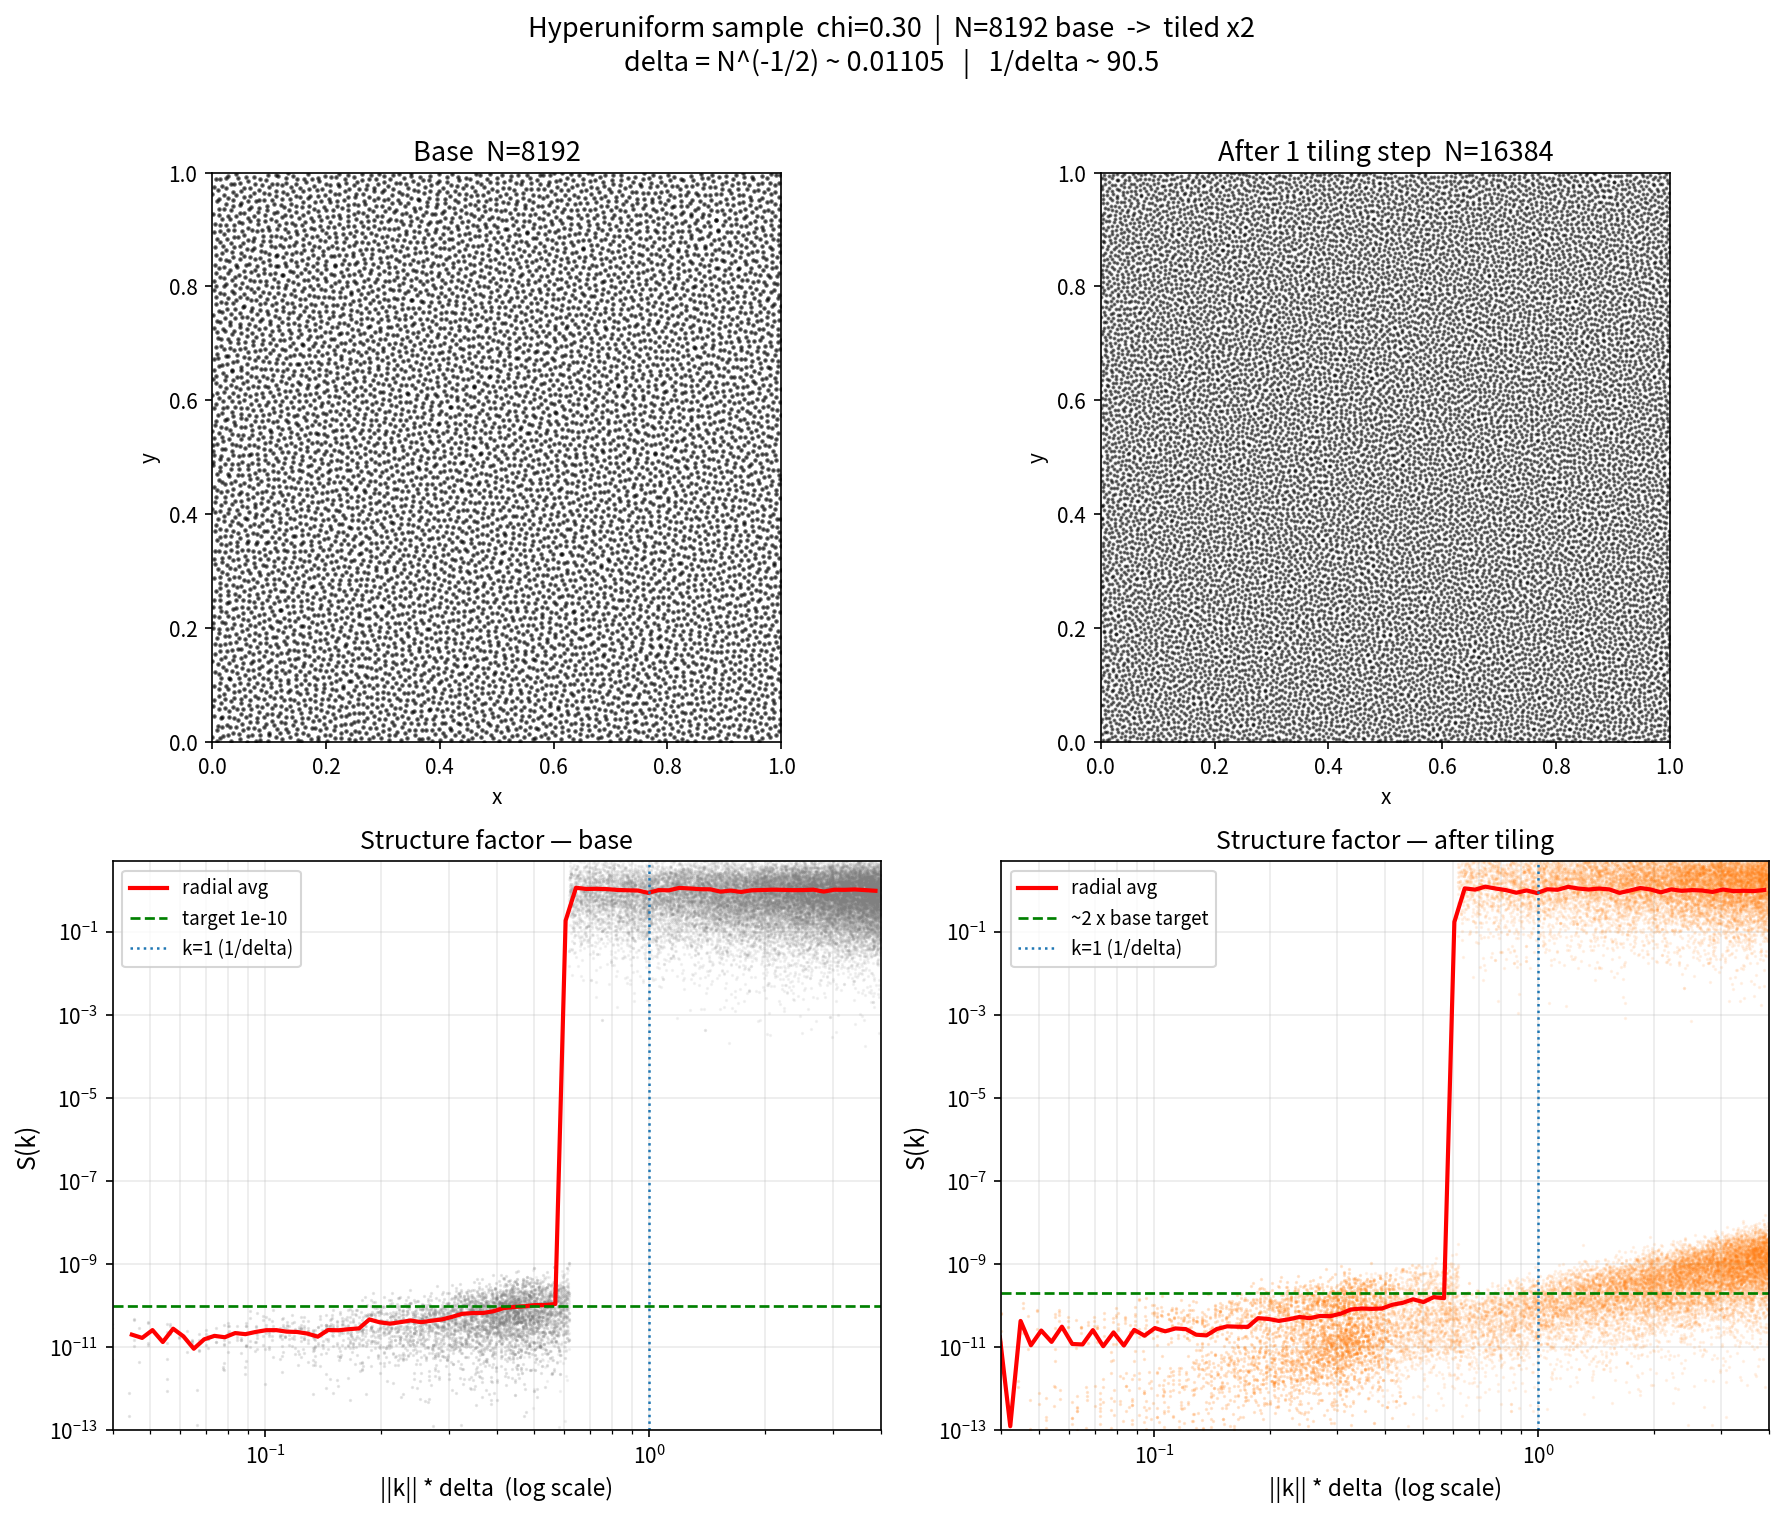
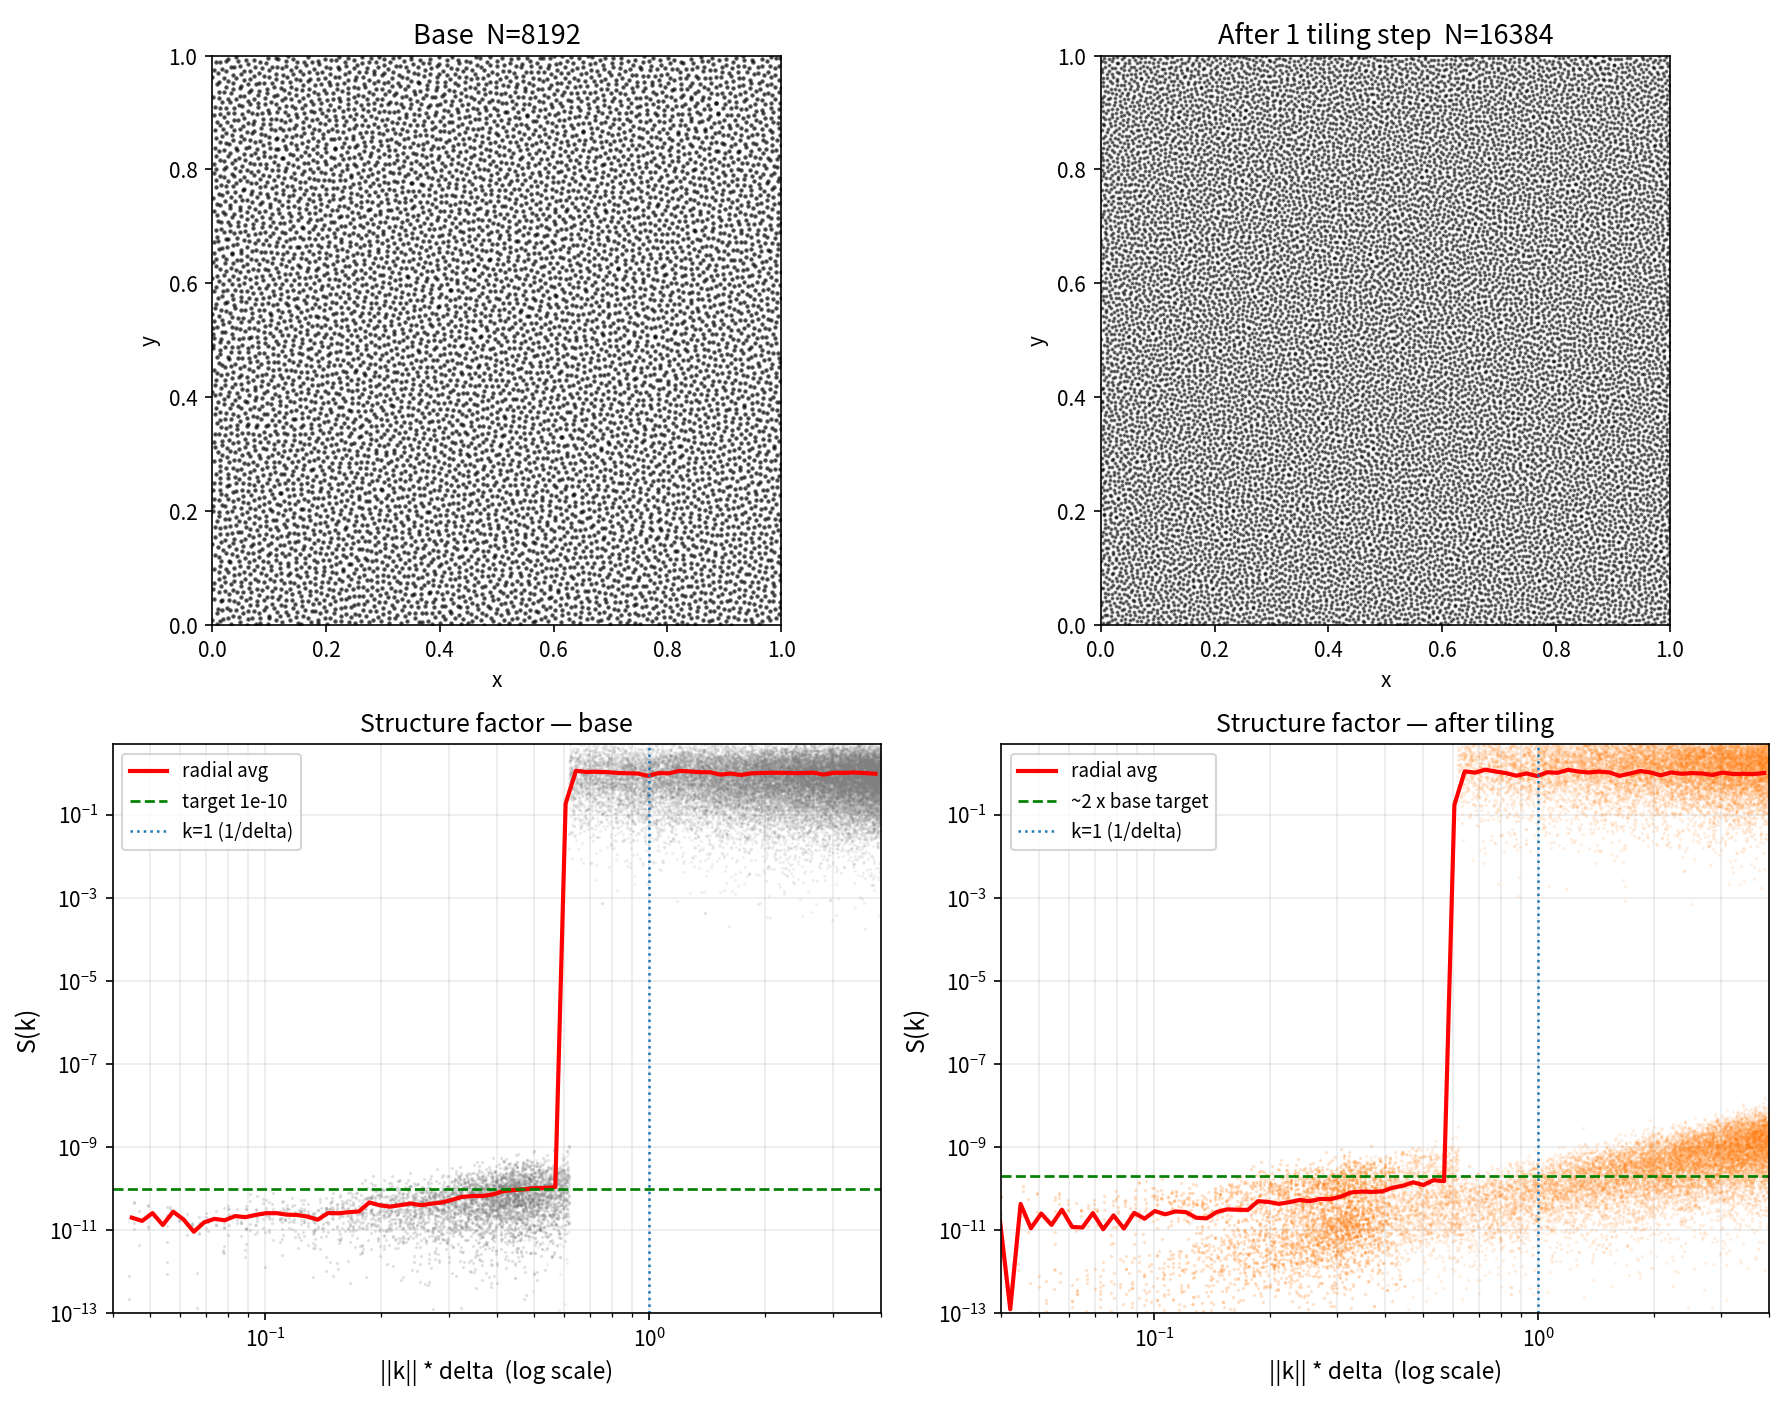
update docs

diff --git a/src/generate_all_samples_from_paper.py b/src/generate_all_samples_from_paper.py
@@ -17,7 +17,7 @@ pip install qmc_sampler
 #%pip install qmc_sampler
 
 #command for google colab
-!pip install --upgrade qmc_sampler
+#!pip install --upgrade qmc_sampler
 
 import blue_sampler as blue
 from qmc_sampler import sample_l1, sample_l2, sample_wd, plot_structure_factor, plot

diff --git a/README.md b/README.md
@@ -47,11 +47,12 @@ Or from a notebook: see [quick_start.ipynb](https://for-a-few-dpps-more.github.i
 [![ND_coverage](./plots/coverage_table_ND.png)](./plots/coverage_table_ND.png)
 
 ## Sampling method
+The samples were generated by **spectral optimisation** (non-uniform Fourier transform) with the `qmc-sampler` Python package: the sampling algorithm selects a spectral exclusion set of wave vectors, initialises the point cloud with i.i.d. uniform points in the unit hypercube, runs a gradient descent on the Fourier loss, and completes the optimisation with a quasi-Newton (L-BFGS) finishing. For speed, the whole optimisation runs in float32 and reaches an almost minimal configuration, S(k) ≤ 2·10⁻¹⁴ N + 3·10⁻¹² |k|² for all excluded wave vectors[^1], which is the level at which the L-BFGS optimiser empirically starts stalling due to numerical precision. Each resulting point cloud comes in two versions:
 
-The samples were generated by **spectral optimisation** (non-uniform Fourier transform) with the [qmc-sampler](https://pypi.org/project/qmc-sampler/) python package: the sampling algorithm select a spectral exclusion set, initialise the point cloud with random i.i.d points on the unit hypercube, then run a gradient descent on the Fourier loss, then complete the optimisation with a quasi-newton finishing to reach a nearly minimal configuration S(k) ≤ 10⁻¹⁰ (at float32 precision, the true theoreticall minimum is around S(k) ≤ 10⁻¹2 / 10⁻¹3). Each resulting point cloud comes in two versions:
+[^1]: An exhaustive float64 check of the whole dataset shows that a marginal proportion of the wave vectors (0.0002 %), all in the `wd` case, exceed this bound, by up to a factor 20 while remaining below S(k) ≤ 10⁻³. The phenomenon is not fully understood, most likely a numerical artifact at specific axial frequencies. These wave vectors are listed in [infos/STEALTHY.md](infos/STEALTHY.md).
 
-- l2: stealthy scattering intensity S(k) ≤ 10⁻¹⁰ in a standard Euclidean ball (thus, an "l2" ball) of wave vectors |k| ≤ cst ;
-- wd: stealthy scattering intensity S(k) ≤ 10⁻¹⁰ in an exclusion set defined as r(k) >= cst, where r(k) is the fourier decomposition of the wrap-around discrepancy (thus, "wd" which stand for wrap-around discrepancy);
+- l2: stealthy scattering intensity in a standard Euclidean ball (thus, an "l2" ball) of wave vectors |k| ≤ cst ;
+- wd: stealthy scattering intensity in an exclusion set defined as r(k) >= cst, where r(k) is the fourier decomposition of the wrap-around discrepancy (thus, "wd" which stand for wrap-around discrepancy);
 
 Note that l2 is isotropic (rotation invariant), which is good for blue noise properties, and wd has a stary, axis oriented shape which is good for qmc integration on low effective dimensional integrands:
 
@@ -69,18 +70,18 @@ For a wave vector k = (k₁, ..., k_D) with integer components, let define the s
 S(k) = |Σⱼ exp(2iπ ⟨k, xⱼ⟩)|² / N
 ```
 
-A near-zero S(k), as here for the provided samples (S(k) ≤ 10⁻¹⁰ on the exclusion set) means that the Monte Carlo integration error is controlled for the low-frequency test function x ↦ exp(2iπ ⟨k, x⟩). The number of such controlled wave vectors is 2 * Chi * (N -1) * D where Chi is an hyperparametter that we set to 0.43 (common choices are 0.3 and 0.4, see for exemple [Morse et al. (2023)](https://doi.org/10.1103/PhysRevResearch.5.033190) ) and the factor 2 comes from the symmetry S(k) = S(-k).
+A near-zero S(k), as here for the provided samples means that the Monte Carlo integration error is controlled for the low-frequency test function x ↦ exp(2iπ ⟨k, x⟩). The number of such controlled wave vectors is 2 * Chi * (N -1) * D where Chi is an hyperparametter that we set to 0.43 (common choices are 0.3 and 0.4, see for exemple [Morse et al. (2023)](https://doi.org/10.1103/PhysRevResearch.5.033190) ) and the factor 2 comes from the symmetry S(k) = S(-k).
 
 Following plots show the values of S(k) for the 2 ball families, 1. as a power spectrum map (kx, ky) ↦ S(k) for 2d point clouds only and 2. as a radial |k| ↦ S(k) curve (average over radial bins) for all dimensions D = 2 to 16 : 
 
-- (kx, ky) ↦ S(k) power spectrums
+- (kx, ky) ↦ S(k) power spectrums for 2D point clouds
       
-all χ, N = 8192, D = 2
+l2 and wd ball, N = 8192, D = 2
       
 ![power spectrum](./plots/powerspectrum_8192points.png)
 
       
-- |k| ↦ S(k) curves 
+- |k| ↦ S(k) curves, |k| normalised by N^1/D for better readability 
 
 l2 ball, N = 1024, D = 2 to 16
 

diff --git a/infos/STEALTHY.md b/infos/STEALTHY.md
@@ -1,0 +1,54 @@
+# Stealthiness of the point sets
+
+Every point set of the dataset was checked by computing, in float64, the structure factor
+
+  S(**k**) = |Σⱼ exp(2iπ⟨**k**, **x**ⱼ⟩)|² / N
+
+on **every** wave vector of its exclusion set: 304 point sets (`l2` and `wd` balls, D = 2–32, N = 2¹⁰–2¹⁷), 39,912,184 wave vectors in total. Both bounds below hold for all of them except 86 wave vectors (0.0002 %), described in [Exceptions](#exceptions).
+
+## Uniform bound
+
+Largest S(**k**) over all N, per dimension, exceptions (†) excluded.
+
+| D | `l2` | `wd` |
+|---:|---:|---:|
+| 2 | 9.4·10⁻⁸ | 8.9·10⁻⁶ † |
+| 3 | 2.9·10⁻⁹ | 1.6·10⁻⁵ † |
+| 4 | 1.5·10⁻⁹ | 1.4·10⁻⁶ † |
+| 5 | 8.6·10⁻¹⁰ | 2.1·10⁻⁶ † |
+| 6 | 8.5·10⁻¹⁰ | 1.6·10⁻⁶ † |
+| 7 | 8.7·10⁻¹⁰ | 2.4·10⁻⁶ |
+| 8 | 8.7·10⁻¹⁰ | 2.2·10⁻⁶ |
+| 9 | 9.0·10⁻¹⁰ | 1.3·10⁻⁶ |
+| 10 | 9.3·10⁻¹⁰ | 8.6·10⁻⁷ |
+| 11 | 8.8·10⁻¹⁰ | 8.0·10⁻⁷ |
+| 12 | 9.1·10⁻¹⁰ | 6.5·10⁻⁷ |
+| 13 | 9.1·10⁻¹⁰ | 7.2·10⁻⁷ |
+| 14 | 9.5·10⁻¹⁰ | 3.6·10⁻⁷ |
+| 15 | 9.3·10⁻¹⁰ | 1.9·10⁻⁷ |
+| 16 | 8.7·10⁻¹⁰ | 3.1·10⁻⁷ |
+| 20 | 8.8·10⁻¹⁰ | 2.7·10⁻⁷ |
+| 24 | 9.0·10⁻¹⁰ | 1.1·10⁻⁷ |
+| 28 | 9.0·10⁻¹⁰ | 6.7·10⁻⁸ |
+| 32 | 9.1·10⁻¹⁰ | 4.0·10⁻⁸ |
+
+## Scaling bound
+
+  S(**k**) ≤ α N + β |**k**|²,  with α = 2·10⁻¹⁴ and β = 3·10⁻¹²
+
+These are pessimistic worth case bounds, typical S(k) values are far below it.
+
+## Exceptions
+
+All 86 exceptions belong to the `wd` ball and are **axial** wave vectors (a single non-zero coordinate) of large norm, |**k**| ≥ 2608, for D ≤ 6 and N ≥ 2¹⁵ only. They exceed the scaling bound by up to a factor 18, with S(**k**) ≤ 8.8·10⁻⁴. They concentrate on three norms, around 2¹², 2¹³ and 2¹⁴/2π ≈ 2608, and when they occur in a point set they hit every coordinate axis. The phenomenon is not fully understood; it is most likely a numerical artifact of the float32 generation pipeline.
+
+| \|**k**\| | count | D | N | max S | S / bound |
+|---|---:|---|---|---:|---|
+| 2608 | 29 | 2, 3, 4, 5, 6 | 2¹⁶, 2¹⁷ | 7.4·10⁻⁵ | 1.2 – 3.6 |
+| 4095, 4097 | 42 | 2, 3, 4, 5 | 2¹⁵, 2¹⁶, 2¹⁷ | 8.8·10⁻⁴ | 3.6 – 17.5 |
+| 8190–8194 | 15 | 2, 3 | 2¹⁷ | 3.2·10⁻⁴ | 1.0 – 1.6 |
+
+
+## Why this bound
+
+The scaling bound has the form of the error of a float32 evaluation of S. The optimiser stalls at this level in float32 while it keeps improving in float64. : Numerically, rounding the phases ⟨**k**, **x**ⱼ⟩ contributes a term in ε_1*|**k**|², and accumulating the sum over N points contributes a term in ε_2*N.

diff --git a/infos/SAMPLING.md b/infos/SAMPLING.md
@@ -35,7 +35,7 @@ The main differences between the implemented version and the method of Morse et 
   (technical, can be read on a second reading), which arise from the fact that we sample point up to rather "high" dimension (up to dimension 32).
 
 * **Weaker stealthy criterion.** Morse et al. reach $S(k) \le 10^{-51}$ with `float128`. We use `float32`,
-  which makes it impossible to go beyond $S(k) \le 10^{-12}$ due to numerical precision. In practice, we stop after 150 iterations of gradient descent followed by 150 iterations of quasi-Newton descent, which yields $S(k) \le 10^{-10}$.
+  which makes it impossible to go beyond $S(k) \le 10⁻13 |k|²$ due to numerical precision. In practice, we stop after 150 iterations of gradient descent followed by 150 iterations of quasi-Newton descent, reaching S(k) ≤ 2·10⁻¹⁴ N + 3·10⁻¹² |k|². Using `float32`is a fondamental design choice of our pipeline, because it comes up with a massive speedup compared to float64 on common GPUs, which are often optimised for graphic applications in mind were exact precision is not a priority.
 
 * **Gradient descent.** Instead of the FIRE method recommended by Morse et al., we use a `bold driver` scheme on the normalised gradient: good steps boost the learning rate, bad steps slow it down. This method has the strong advantage of working out of the box (no hyperparameter tuning) on the full $(N, D)$ range that we considered.
   The bold driver alone would be sufficient to converge for low $\chi$ ($\chi \le 0.3$, or even a bit more). However, our goal was to push $\chi$ as high as possible ($\chi = 0.43$ in the samples of the database), which makes the optimisation significantly harder. Gradient descent is then not enough, so we complete it with 150 additional quasi-Newton iterations.
